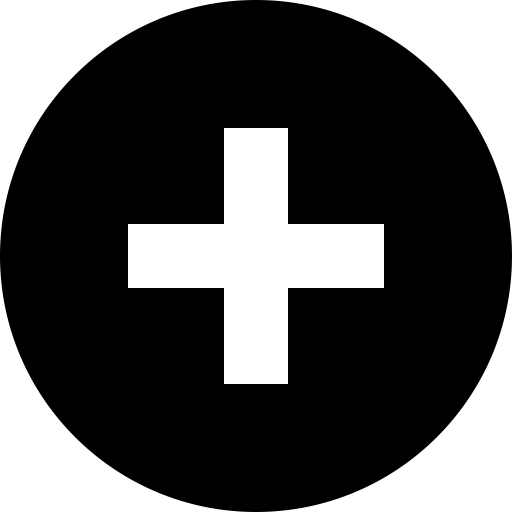
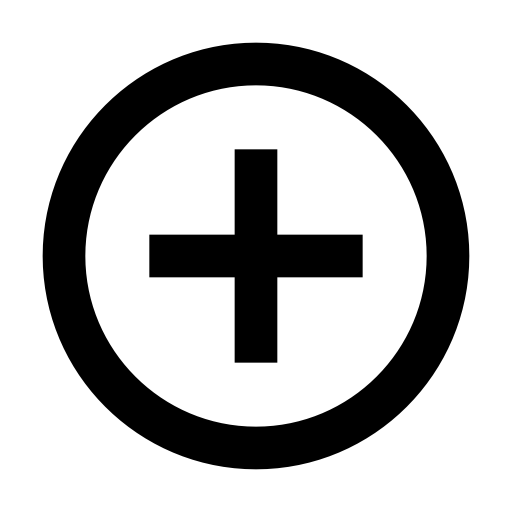
final version

diff --git a/app/src/components/ChangeNote.vue b/app/src/components/ChangeNote.vue
@@ -1,32 +1,40 @@
 <template>
   <div class="change-note">
-    <h2>Change Note</h2>
-    <button @click="cancelChange">Отменить внесенные изменения</button>
-    <button @click="cancelCancelChange" :disabled="disabled">Вернуть изменение</button>
-    <button @click="cancelEditingWindow">Отменить редактирование</button>
+    <h2>Edit Note</h2>
+    <div class="edit">
+      <div class="edit-buttons">
+        <button @click="cancelChange">Discard Changes</button>
+        <button @click="cancelCancelChange" :disabled="disabled">Return Change</button>
+        <button @click="cancelEditingWindow">Exit</button>
+      </div>
 
-    <DialogWindow
-      v-if="canselEdition"
-      @confirmChange="onConfirmChange"
-      @cancelChange="onCancelChange"
-    />
+      <DialogWindow
+        v-if="canselEdition"
+        @confirmChange="onConfirmChange"
+        @cancelChange="onCancelChange"
+      />
 
-    <input type="text" v-model="note.name" />
-    <ul>
-      <li v-for="(todo, index) in note.todos" :key="index">
-        <input type="checkbox" v-model="todo.done" @click="todo.done = !todo.done" />
-        <input type="text" v-model="todo.name" />
-        <img class="change-pencil" src="../../img/remove.png" @click="removeTodo(index)" />
-      </li>
-    </ul>
-    <input
-      type="checkbox"
-      v-model="checkboxAddedTodo"
-      @click="checkboxAddedTodo = !checkboxAddedTodo"
-    />
-    <input type="text" v-model="addedTodo" />
-    <button class="addTodo" @click="onAddTodo">Add new ToDo</button>
-    <button class="save-changes" @click="$emit('onChangingNote', note)">Save changes</button>
+      <input type="text" v-model="note.name" />
+      <ul>
+        <li v-for="(todo, index) in note.todos" :key="index">
+          <input type="checkbox" v-model="todo.done" @click="todo.done = !todo.done" />
+          <input type="text" v-model="todo.name" />
+          <img class="remove-todo" src="../../img/remove.png" @click="removeTodo(index)" />
+        </li>
+        <li>
+          <input
+            type="checkbox"
+            v-model="checkboxAddedTodo"
+            @click="checkboxAddedTodo = !checkboxAddedTodo"
+          />
+          <input type="text" v-model="addedTodo" placeholder="Enter New Todo" />
+          <img class="remove-todo" src="../../img/add.png" @click="onAddTodo" />
+        </li>
+      </ul>
+
+      <div class="add-new-todo"></div>
+      <button class="save-changes" @click="$emit('onChangingNote', note)">Save changes</button>
+    </div>
   </div>
 </template>
 
@@ -34,14 +42,16 @@
 import DialogWindow from "./DialogWindow.vue";
 
 export default {
-  name: "ChangeNote",
+  name: 'ChangeNote',
+
   components: {
     DialogWindow,
   },
 
   props: {
-    changingNote: Object
+    changingNote: Object,
   },
+
   data() {
     return {
       note: JSON.parse(JSON.stringify(this.changingNote)),
@@ -55,6 +65,9 @@ export default {
 
   methods: {
     onAddTodo() {
+      if (this.addedTodo === "") {
+        return;
+      }
       this.note.todos.push({ done: this.checkboxAddedTodo, name: this.addedTodo });
       this.addedTodo = '';
       this.checkboxAddedTodo = false;

diff --git a/app/src/components/Notes.vue b/app/src/components/Notes.vue
@@ -1,10 +1,9 @@
 <template>
   <div class="notes">
-
     <AddNote v-if="!changing" @addNote="onAddNote" />
 
     <ChangeNote v-if="changing" :changingNote="changingNote" @onChangingNote="onChangingNote" />
-    
+
     <Note
       v-for="(note, index) in notes"
       v-else
@@ -25,29 +24,30 @@
 </template>
 
 <script>
-import ChangeNote from "./ChangeNote.vue";
 import AddNote from "./AddNote.vue";
+import ChangeNote from "./ChangeNote.vue";
 import Note from "./Note.vue";
 import DialogWindow from "./DialogWindow.vue";
 import NotesList from "../NotesList.js";
 
 export default {
   name: 'Notes',
+
   components: {
-    ChangeNote,
     AddNote,
+    ChangeNote,
     DialogWindow,
-    Note
+    Note,
   },
 
   data() {
     return {
-      notes: NotesList,
+      notes: JSON.parse(localStorage.getItem("notes")) || NotesList,
       changing: false,
       changingNote: {},
       changeNote: false,
       index: 0,
-      addNotePage: false
+      addNotePage: false,
     }
   },
 
@@ -67,12 +67,14 @@ export default {
     onChangingNote(note) {
       this.changing = false;
       this.notes[this.index] = note;
+      localStorage.setItem("notes", JSON.stringify(this.notes));
     },
 
     onConfirmChange(index) {
       this.notes.splice(index, 1);
       this.index = 0;
       this.changeNote = false;
+      localStorage.setItem("notes", JSON.stringify(this.notes));
     },
 
     onCancelChange() {
@@ -80,8 +82,9 @@ export default {
     },
 
     onAddNote(note) {
-      this.notes.push({ done: false, name: note[0], todos: [{name: note[1], done: false}]});
+      this.notes.push({ done: false, name: note[0], todos: [{ name: note[1], done: false }] });
       this.addNotePage = false;
+      localStorage.setItem("notes", JSON.stringify(this.notes));
     }
   }
 }

diff --git a/app/src/style.css b/app/src/style.css
@@ -1,28 +1,54 @@
 body {
-    background-color: #caced7;
-    background-image: url(../img/sky.jpg);
-    background-size: cover;
+    background-color: #cceff0;
     box-sizing: border-box;
 }
 
 .main-section {
     width: 50%;
     margin: auto;
-    background-color: antiquewhite;
+    background-image: url('../img/tetr.jpg');
     padding: 20px;
     border-radius: 5px;
-    text-align: center;
 }
 
-.change-pencil {
+img {
     width: 30px;
     cursor: pointer;
 }
 
-.add-note {}
+.add-note {
+    display: flex;
+    justify-content: space-around;
+}
+
+.images {
+    display: flex;
+    justify-content: space-between;
+}
+
+.note-name {
+    text-transform: uppercase;
+    font-weight: bold;
+}
+
+.remove-todo {
+    width: 15px;
+    margin: -3px;
+}
 
 .add-note-button {
     width: 30px;
+    cursor: pointer;
+    margin: 10px;
+}
+
+.add-new-todo {
+    display: flex;
+    justify-content: space-around;
+}
+
+.add-new-todo-button {
+    width: 25px;
     cursor: pointer;
 }
 
@@ -38,15 +64,42 @@ body {
     padding: 10px;
     width: 40%;
     margin: 20px;
+    background-color: #cceff0;
+}
+
+.change-note {
+    width: 70%;
+}
+
+.edit {
+    border: 1px solid black;
+    border-radius: 5px;
+    padding: 10px;
+    background-color: #cceff0;
+}
+
+.edit li {
+    list-style: none;
+}
+
+.edit-buttons {
+    display: flex;
+    justify-content: space-around;
+    height: 30px;
 }
 
 li {
-    list-style-type: none;
+    margin-left: 50px;
 }
 
 ul {
     margin-left: 0;
     padding-left: 0;
+    vertical-align: auto;
+}
+
+input {
+    margin: 13px;
 }
 
 .done {

diff --git a/app/src/components/AddNote.vue b/app/src/components/AddNote.vue
@@ -1,21 +1,34 @@
 <template>
   <div class="add-note">
-      <span>Имя заметки</span>
-      <input type="text" v-model="nameNote"/>
-      <span>todo</span>
-      <input type="text" v-model="todo"/>
-      <button class="add-button" @click="$emit('addNote', [nameNote, todo])">Add new note</button>
+    <input type="text" v-model="nameNote" placeholder="Note name" />
+    <input type="text" v-model="todo" placeholder="Todo" />
+    <img class="add-note-button" src="../../img/add.png" @click="emptyInputs(), cleanInputs()" />
   </div>
 </template>
 
 <script>
 export default {
-    name: "AddNote",
-    data() {
-        return {
-            nameNote: "",
-            todo: [],
-        }
+  name: 'AddNote',
+
+  data() {
+    return {
+      nameNote: "",
+      todo: "",
     }
+  },
+
+  methods: {
+    cleanInputs() {
+      this.nameNote = "";
+      this.todo = "";
+    },
+
+    emptyInputs() {
+      if (this.nameNote === "" || this.todo === "") {
+        return;
+      }
+      this.$emit('addNote', [this.nameNote, this.todo])
+    }
+  }
 }
 </script>

diff --git a/app/src/components/Note.vue b/app/src/components/Note.vue
@@ -1,8 +1,15 @@
 <template>
   <div class="note">
-    <h4>{{note.name}}</h4>
-    <img class="change-pencil" src="../../img/change-pencil.png" @click="$emit('changeNote', [note, index])"/>
-    <img class="change-pencil" src="../../img/remove.png" @click="$emit('removeNote', index)"/>
+    <div class="images">
+      <img
+        class="change-pencil"
+        src="../../img/change-pencil.png"
+        @click="$emit('changeNote', [note, index])"
+      />
+      <span class="note-name">{{note.name}}</span>
+      <img class="delete" src="../../img/remove.png" @click="$emit('removeNote', index)" />
+    </div>
+    
     <ul>
       <li v-for="todo in note.todos" :key="todo.name" :class="{ 'done' : todo.done}">{{todo.name}}</li>
     </ul>
@@ -12,6 +19,7 @@
 <script>
 export default {
   name: "Note",
+
   props: {
     note: Object,
     index: Number,

diff --git a/app/src/components/DialogWindow.vue b/app/src/components/DialogWindow.vue
@@ -10,10 +10,10 @@
 
 <script>
 export default {
-    name: "DialogWindow",
-    props: {
-        index: Number,
-    }
-
+  name: 'DialogWindow',
+  
+  props: {
+    index: Number,
+  }
 }
 </script>

diff --git a/app/src/components/MainSection.vue b/app/src/components/MainSection.vue
@@ -8,7 +8,7 @@
 import Notes from "./Notes.vue";
 
 export default {
-  name: "MainSection",
+  name: 'MainSection',
   components: {
     Notes,
   },
